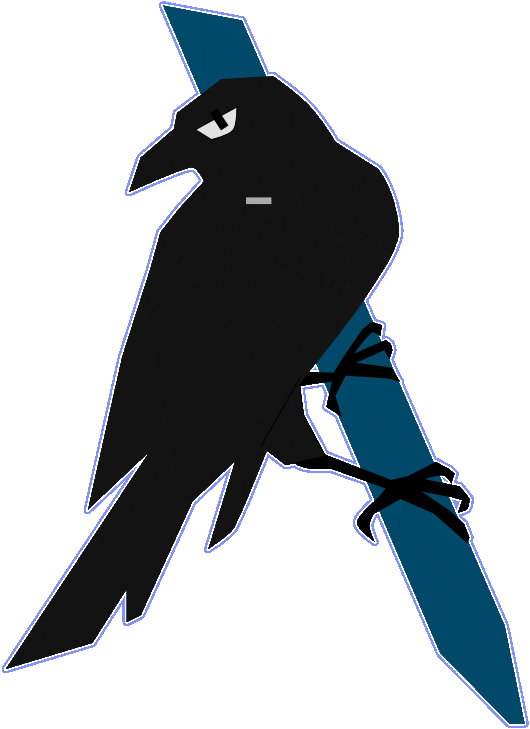
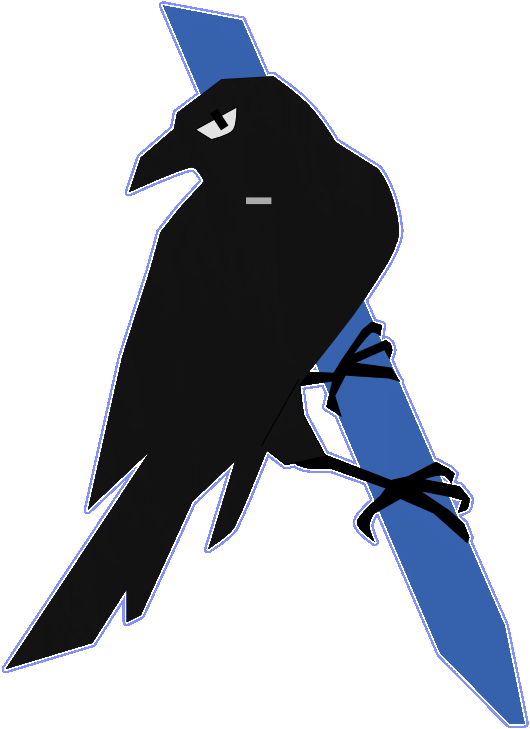
fix

Changed region(s): [[0.6038, 0.4225, 0.9962, 0.9959], [0.3019, 0.0, 0.5132, 0.1509]]

diff --git a/styles.css b/styles.css
@@ -1,5 +1,5 @@
 :root {
-    --primary-color: #525cf1;
+    --primary-color: #00638e;
     --Dark-bg : #161616;
     --Darker-bg : #000000;
     --light-text : #bfd8e3;
@@ -144,7 +144,7 @@ section {
 .hero {
     display: flex;
     align-items: center;
-    padding-top: 6rem;
+    padding-top: 5rem;
     padding-left: 6rem;
     
 }
@@ -177,7 +177,7 @@ section {
     font-weight: 600;
 }
 .hero-text p {
-    font-size: 1.1rem;
+    font-size: 1rem;
     color: var(--gray-text);
     margin-bottom: 1.5rem;
     max-width: 600px;
@@ -212,7 +212,8 @@ section {
     object-fit: cover;
     align-items: flex-start;
     transition: var(--transition);
-    max-width: 400px;
+    max-width: 300px;
+    margin:70px
 }
 .img-mobile {
   display: none;
@@ -394,7 +395,7 @@ section {
 .proyect-area span {
   font-size: .8rem;
   padding: .3rem 0.8rem;
-  background-color: #161455;
+  background-color: var(--title-bg);
   border-radius: 20px;
 }
 .gallery-container {
@@ -556,7 +557,7 @@ position: fixed;
     width: 180px; /* Ajusta el tamaño del GIF para móviles */
   }
   .loader-container {
-    max-block-size: 100vh; /* Ajusta la altura máxima del loader para móviles */
+    max-block-size: 1000vh; /* Ajusta la altura máxima del loader para móviles */
     align-self: start;
   }
     .loader-gif {
@@ -652,7 +653,7 @@ position: fixed;
     flex-wrap: wrap;
   }
     .nav-links-footer .btn{
-    margin-left: 20rem;
+    margin-left: 18rem;
     margin-top: 1rem;
   }
   .proyects-container {
